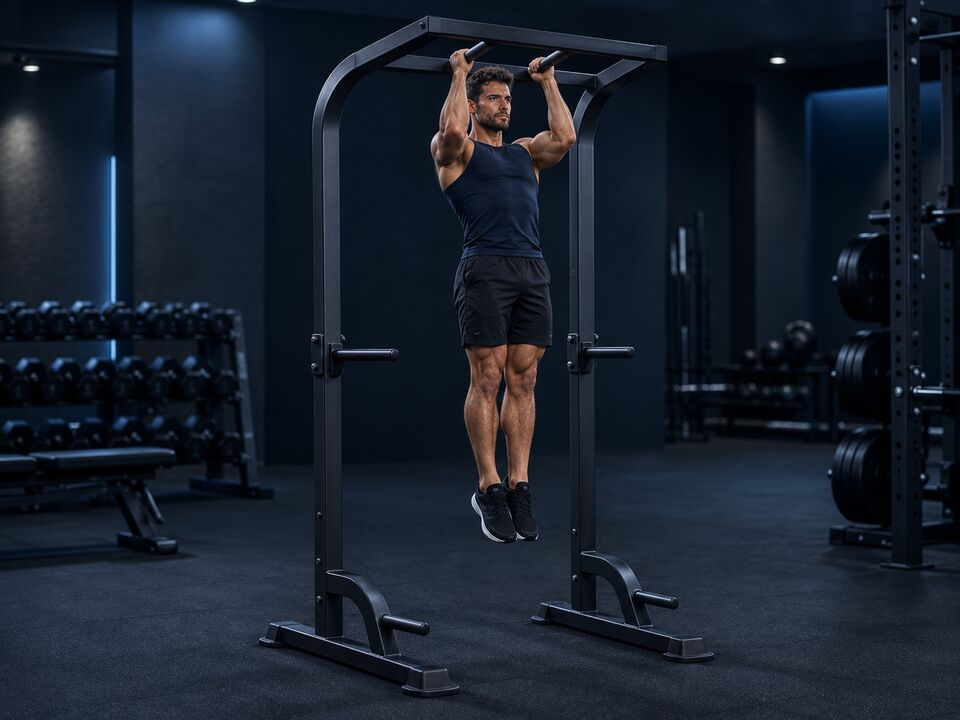
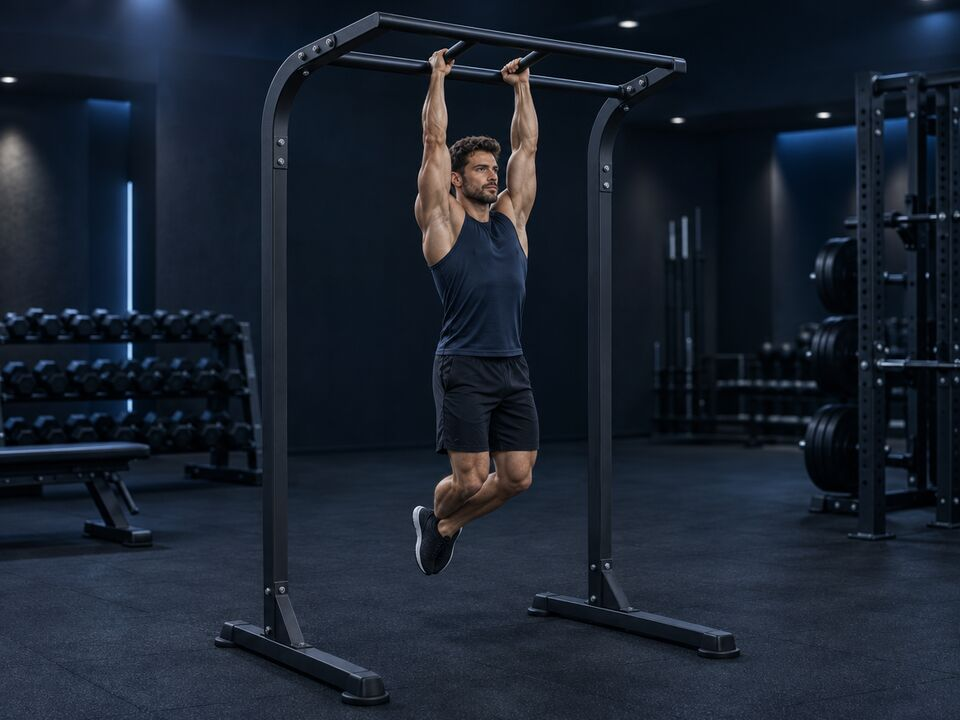
Neue Fotos für High Row, Rudermaschine eng und Klimmzug eng
Jeder Auftrag beschreibt das Gerät nach einem echten Foto, Teil für Teil.
Alle drei saßen beim ersten Versuch. Wie es geht, steht in CLAUDE.md.

Claude-Session: https://claude.ai/code/session_01MPv65TyRWfLE6TBM7iE6xk

diff --git a/apps/pwa/sw.js b/apps/pwa/sw.js
@@ -6,7 +6,7 @@
  * ist der einzige Weg, den Nutzer zu erreichen, waehrend die App geschlossen
  * ist. Siehe workers/push.
  */
-const CACHE = "daevo-v145";
+const CACHE = "daevo-v146";
 const ASSETS = [
   "./",
   "./index.html",

diff --git a/CLAUDE.md b/CLAUDE.md
@@ -332,6 +332,19 @@ Strichfiguren, keine Clip Art, keine Karten mit Rahmen um Text.
     die Konstruktion, so entstand die Klimmzugstation.
   Der Bilddienst nimmt zwei Aufträge gleichzeitig an, mehr kommen mit 429
   zurück, und ein abgelehnter Auftrag kostet nichts.
+- Vor jedem Bildauftrag ein echtes Foto der Übung oder des Geräts ansehen,
+  etwa die Produktfotos des Herstellers, und den Aufbau daraus Teil für Teil
+  in den Auftrag schreiben. So saßen High Row, Rudermaschine eng und Klimmzug
+  eng beim ersten Versuch. Was dabei gelernt ist: bei der High Row steht das
+  hohe Gestell hinter dem Rücken, der Hebel dreht sich oben hinter dem Kopf,
+  die Scheiben hängen hinten. Beim Rudern dreht sich der Hebel unten am
+  Rahmen, und das Brustpolster sitzt auf einem eigenen Pfosten. Eine breite
+  Stange wird ausdrücklich quer zum Körper beschrieben und von schräg vorn
+  fotografiert, in der Seitenansicht lag sie längs. Beim Reverse Butterfly
+  an der Maschine steht die Maschine direkt vor dem Sitz, das Polster sitzt
+  vorn an ihr. Am Kabel stehen beide Türme gleich weit vor der Person, damit
+  der Zug nach hinten aussen geht, fotografiert von vorn und erhöht, sonst
+  sieht man am Boden nicht, wo die Türme stehen.
 - Klimmzug eng: eine normale Klimmzugstation, oben ein Rahmen aus vorderer
   und hinterer Stange, in der Mitte zwei parallele Streben von vorn nach
   hinten, daran neutral gegriffen. Reverse Butterfly am Kabel: Kabel von der
